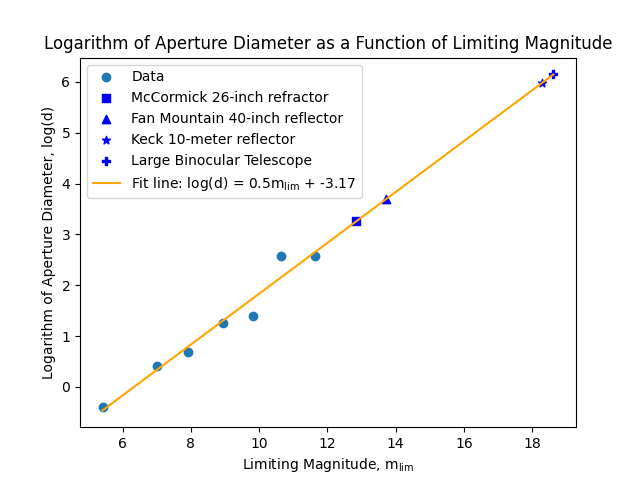
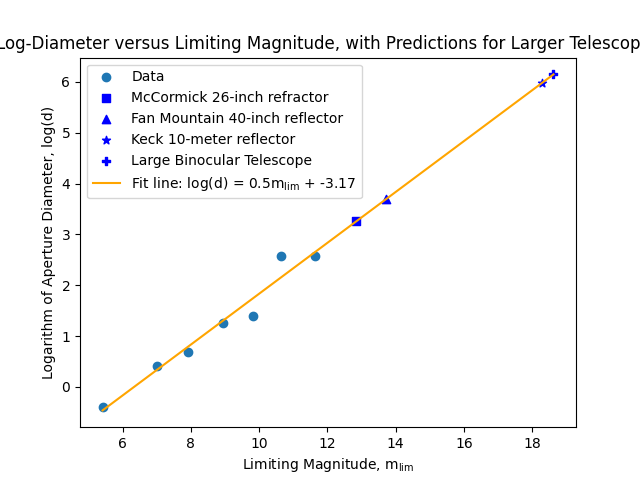
Regenerate plot with better title

Changed region(s): [[0.0, 0.0625, 1.0, 0.125]]

diff --git a/Lab 2/question4-mlim-predictions/question4-prediction.py b/Lab 2/question4-mlim-predictions/question4-prediction.py
@@ -65,7 +65,7 @@ line_label = 'Fit line: log(d) = ' + str(round(m, 2)) + '$\mathregular{m_{lim}}$
 plt.plot(x_regression, y_regression, color='orange', label=line_label)
 
 # chart title, labels, legend
-plt.title('Logarithm of Aperture Diameter as a Function of Limiting Magnitude')
+plt.title('Log-Diameter versus Limiting Magnitude, with Predictions for Larger Telescopes')
 plt.xlabel('Limiting Magnitude, $\mathregular{m_{lim}}$')
 plt.ylabel('Logarithm of Aperture Diameter, log(d)')
 plt.legend()
